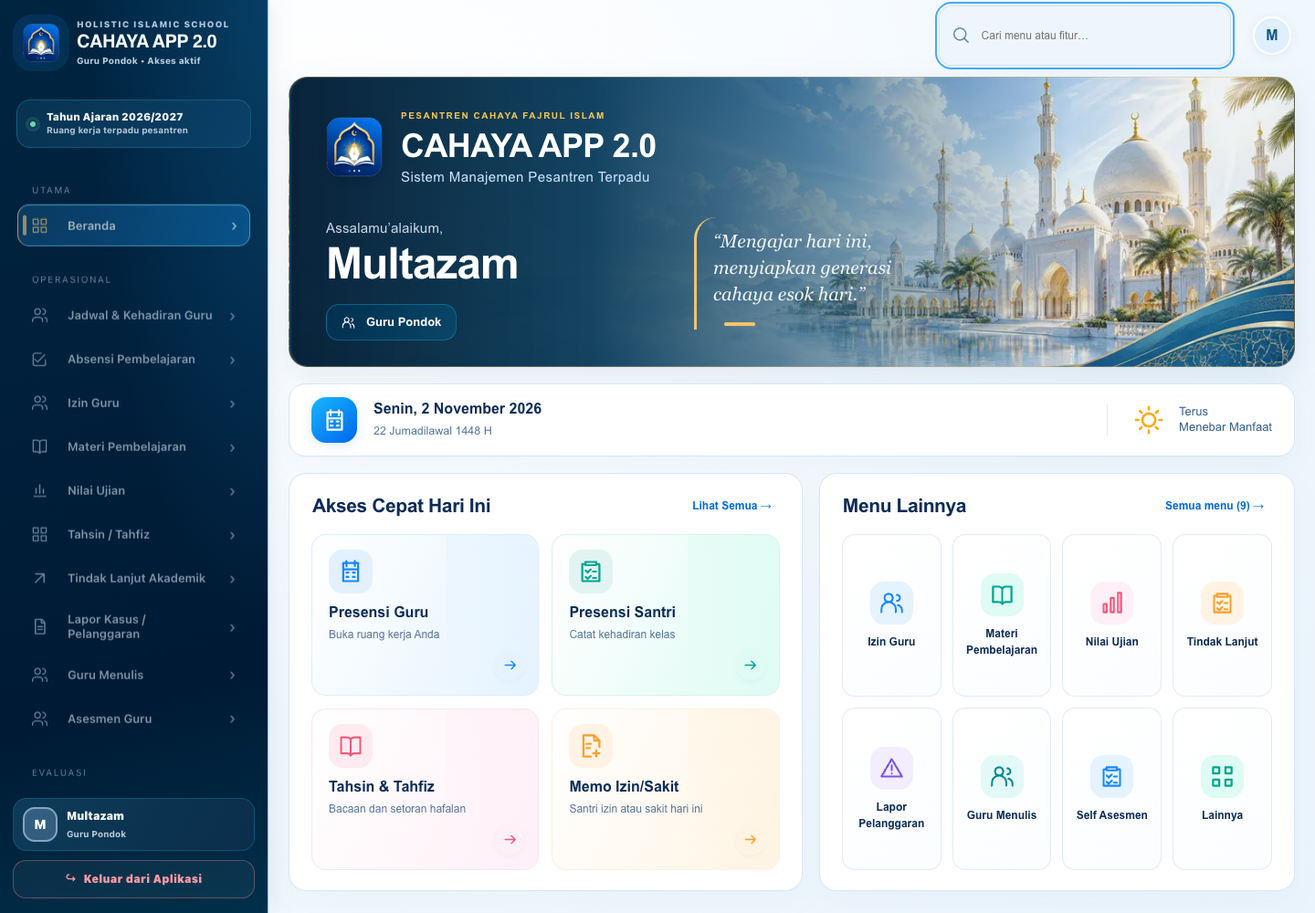
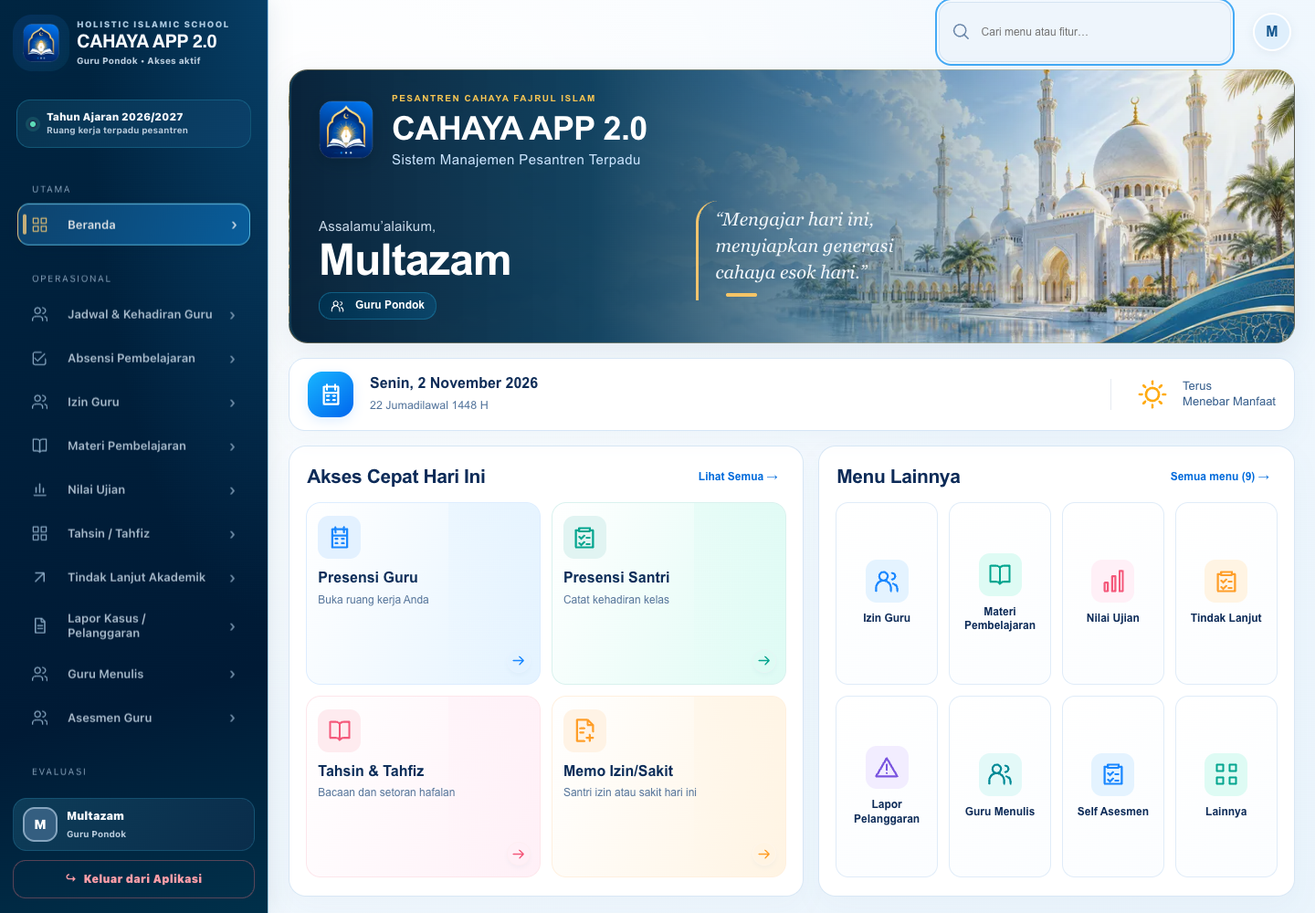
up

diff --git a/css/mobile-home-v2.css b/css/mobile-home-v2.css
@@ -342,3 +342,36 @@
  body:not(.admin-brand-shell) #mainSidebar .sidebar-user-card{background:linear-gradient(120deg,#0d3c58,#0a2d4b)!important;border-color:#2787ad55!important;border-radius:15px!important}
  body:not(.admin-brand-shell) #mainSidebar .btn-logout{border-radius:14px!important;border-color:#ed70795c!important;color:#ff9ea8!important}
 }
+/* Fit the desktop Home to the available viewport; complete menus open in a dialog. */
+@media(min-width:769px){
+ #mobileRoleHome,#mobileRoleHome.mh-sparse{height:100dvh!important;min-height:0!important;overflow:hidden;scrollbar-gutter:auto;max-height:100dvh!important;padding:10px 22px 18px!important;gap:clamp(10px,1.6vh,18px);grid-template-rows:clamp(38px,5vh,54px) clamp(170px,30vh,318px) clamp(54px,8vh,80px) minmax(0,1fr)}
+ #mobileRoleHome .mh-masthead{min-height:0;padding:clamp(16px,2.5vh,30px) 32px;grid-template-rows:clamp(54px,8vh,88px) minmax(0,1fr);gap:clamp(8px,1.6vh,20px)}
+ #mobileRoleHome .mh-brand>img{width:clamp(40px,6vh,62px);height:clamp(44px,7vh,70px)}
+ #mobileRoleHome .mh-brand strong{font-size:clamp(24px,3.6vh,36px)}
+ #mobileRoleHome .mh-brand .mh-desktop-subtitle{font-size:clamp(11px,1.5vh,15px)!important}
+ #mobileRoleHome h1{font-size:clamp(28px,4.8vh,48px)!important;margin:3px 0 8px!important;line-height:1.1!important}
+ #mobileRoleHome .mh-identity-actions .mh-role{min-height:30px;padding:6px 12px;font-size:12px}
+ #mobileRoleHome blockquote{font-size:clamp(14px,2vh,20px)!important;padding-top:6px;padding-bottom:16px}
+ #mobileRoleHome .mh-date{height:100%;padding:8px 20px;min-height:0}
+ #mobileRoleHome .mh-date-icon{width:clamp(34px,5vh,50px);height:clamp(34px,5vh,50px)}
+ #mobileRoleHome .mh-quick,#mobileRoleHome .mh-menu{min-height:0;padding:clamp(12px,2vh,22px) clamp(12px,1.6vw,24px);gap:clamp(8px,1.5vh,16px);grid-template-rows:26px minmax(0,1fr)}
+ #mobileRoleHome h2{font-size:clamp(16px,2.1vh,21px)!important}
+ #mobileRoleHome .mh-quick-grid,#mobileRoleHome .mh-menu-grid{min-height:0;gap:clamp(8px,1.2vh,12px);grid-template-rows:repeat(2,minmax(0,1fr))}
+ #mobileRoleHome .mh-menu-grid{grid-template-columns:repeat(4,minmax(0,1fr))}
+ #mobileRoleHome .mh-quick-card,#mobileRoleHome .mh-menu-card{min-height:0;padding:clamp(8px,1.4vh,16px) 12px;gap:clamp(4px,1vh,10px)}
+ #mobileRoleHome .mh-quick-card .mh-icon,#mobileRoleHome .mh-menu-card .mh-icon{width:clamp(30px,4.8vh,47px);height:clamp(30px,4.8vh,47px);border-radius:12px}
+ #mobileRoleHome .mh-quick-card .mh-icon svg,#mobileRoleHome .mh-menu-card .mh-icon svg{width:clamp(20px,2.8vh,28px);height:clamp(20px,2.8vh,28px)}
+ #mobileRoleHome .mh-quick-card .mh-card-copy b{font-size:clamp(13px,1.7vh,16px)}
+ #mobileRoleHome .mh-quick-card .mh-card-copy small{font-size:clamp(10px,1.3vh,12px)!important;-webkit-line-clamp:1}
+ #mobileRoleHome .mh-menu-card b{font-size:clamp(10px,1.25vh,12px);line-height:1.3}
+ #mobileRoleHome .mh-quick-card .mh-card-arrow{width:26px;height:26px;bottom:12px;right:10px}
+}
+@media(min-width:901px) and (max-height:850px){
+ body:not(.admin-brand-shell) #mainSidebar .sidebar-top{padding-top:12px!important;padding-bottom:8px!important}
+ body:not(.admin-brand-shell) #mainSidebar .brand-header{padding-bottom:12px!important}
+ body:not(.admin-brand-shell) #mainSidebar .sidebar-school-pill{padding:10px 12px!important;margin-top:6px!important}
+ html.cahaya-v2 body:not(.admin-brand-shell) #mainSidebar #dynamicMenu .group-label{margin-top:12px!important;margin-bottom:6px!important}
+ html.cahaya-v2 body:not(.admin-brand-shell) #mainSidebar #dynamicMenu .nav-item{min-height:35px!important;padding-top:7px!important;padding-bottom:7px!important;font-size:12px!important}
+ body:not(.admin-brand-shell) #mainSidebar .sidebar-bottom{padding-top:8px!important;padding-bottom:10px!important}
+ body:not(.admin-brand-shell) #mainSidebar .sidebar-user-card{padding:8px 10px!important;margin-bottom:8px!important}
+}

diff --git a/docs/css/mobile-home-v2.css b/docs/css/mobile-home-v2.css
@@ -342,3 +342,36 @@
  body:not(.admin-brand-shell) #mainSidebar .sidebar-user-card{background:linear-gradient(120deg,#0d3c58,#0a2d4b)!important;border-color:#2787ad55!important;border-radius:15px!important}
  body:not(.admin-brand-shell) #mainSidebar .btn-logout{border-radius:14px!important;border-color:#ed70795c!important;color:#ff9ea8!important}
 }
+/* Fit the desktop Home to the available viewport; complete menus open in a dialog. */
+@media(min-width:769px){
+ #mobileRoleHome,#mobileRoleHome.mh-sparse{height:100dvh!important;min-height:0!important;overflow:hidden;scrollbar-gutter:auto;max-height:100dvh!important;padding:10px 22px 18px!important;gap:clamp(10px,1.6vh,18px);grid-template-rows:clamp(38px,5vh,54px) clamp(170px,30vh,318px) clamp(54px,8vh,80px) minmax(0,1fr)}
+ #mobileRoleHome .mh-masthead{min-height:0;padding:clamp(16px,2.5vh,30px) 32px;grid-template-rows:clamp(54px,8vh,88px) minmax(0,1fr);gap:clamp(8px,1.6vh,20px)}
+ #mobileRoleHome .mh-brand>img{width:clamp(40px,6vh,62px);height:clamp(44px,7vh,70px)}
+ #mobileRoleHome .mh-brand strong{font-size:clamp(24px,3.6vh,36px)}
+ #mobileRoleHome .mh-brand .mh-desktop-subtitle{font-size:clamp(11px,1.5vh,15px)!important}
+ #mobileRoleHome h1{font-size:clamp(28px,4.8vh,48px)!important;margin:3px 0 8px!important;line-height:1.1!important}
+ #mobileRoleHome .mh-identity-actions .mh-role{min-height:30px;padding:6px 12px;font-size:12px}
+ #mobileRoleHome blockquote{font-size:clamp(14px,2vh,20px)!important;padding-top:6px;padding-bottom:16px}
+ #mobileRoleHome .mh-date{height:100%;padding:8px 20px;min-height:0}
+ #mobileRoleHome .mh-date-icon{width:clamp(34px,5vh,50px);height:clamp(34px,5vh,50px)}
+ #mobileRoleHome .mh-quick,#mobileRoleHome .mh-menu{min-height:0;padding:clamp(12px,2vh,22px) clamp(12px,1.6vw,24px);gap:clamp(8px,1.5vh,16px);grid-template-rows:26px minmax(0,1fr)}
+ #mobileRoleHome h2{font-size:clamp(16px,2.1vh,21px)!important}
+ #mobileRoleHome .mh-quick-grid,#mobileRoleHome .mh-menu-grid{min-height:0;gap:clamp(8px,1.2vh,12px);grid-template-rows:repeat(2,minmax(0,1fr))}
+ #mobileRoleHome .mh-menu-grid{grid-template-columns:repeat(4,minmax(0,1fr))}
+ #mobileRoleHome .mh-quick-card,#mobileRoleHome .mh-menu-card{min-height:0;padding:clamp(8px,1.4vh,16px) 12px;gap:clamp(4px,1vh,10px)}
+ #mobileRoleHome .mh-quick-card .mh-icon,#mobileRoleHome .mh-menu-card .mh-icon{width:clamp(30px,4.8vh,47px);height:clamp(30px,4.8vh,47px);border-radius:12px}
+ #mobileRoleHome .mh-quick-card .mh-icon svg,#mobileRoleHome .mh-menu-card .mh-icon svg{width:clamp(20px,2.8vh,28px);height:clamp(20px,2.8vh,28px)}
+ #mobileRoleHome .mh-quick-card .mh-card-copy b{font-size:clamp(13px,1.7vh,16px)}
+ #mobileRoleHome .mh-quick-card .mh-card-copy small{font-size:clamp(10px,1.3vh,12px)!important;-webkit-line-clamp:1}
+ #mobileRoleHome .mh-menu-card b{font-size:clamp(10px,1.25vh,12px);line-height:1.3}
+ #mobileRoleHome .mh-quick-card .mh-card-arrow{width:26px;height:26px;bottom:12px;right:10px}
+}
+@media(min-width:901px) and (max-height:850px){
+ body:not(.admin-brand-shell) #mainSidebar .sidebar-top{padding-top:12px!important;padding-bottom:8px!important}
+ body:not(.admin-brand-shell) #mainSidebar .brand-header{padding-bottom:12px!important}
+ body:not(.admin-brand-shell) #mainSidebar .sidebar-school-pill{padding:10px 12px!important;margin-top:6px!important}
+ html.cahaya-v2 body:not(.admin-brand-shell) #mainSidebar #dynamicMenu .group-label{margin-top:12px!important;margin-bottom:6px!important}
+ html.cahaya-v2 body:not(.admin-brand-shell) #mainSidebar #dynamicMenu .nav-item{min-height:35px!important;padding-top:7px!important;padding-bottom:7px!important;font-size:12px!important}
+ body:not(.admin-brand-shell) #mainSidebar .sidebar-bottom{padding-top:8px!important;padding-bottom:10px!important}
+ body:not(.admin-brand-shell) #mainSidebar .sidebar-user-card{padding:8px 10px!important;margin-bottom:8px!important}
+}

diff --git a/docs/home-supervisor-v2.html b/docs/home-supervisor-v2.html
@@ -1,6 +1,6 @@
 <!doctype html><html lang="id"><head>
 <meta charset="utf-8"><meta name="viewport" content="width=device-width,initial-scale=1,viewport-fit=cover"><meta name="theme-color" content="#f4f9ff"><title>Supervisor • CAHAYA APP</title>
-<script src="js/role-system-v2.js?v=266"></script><script src="js/role-route-registry-v2.js?v=266"></script><script src="js/role-navigation-v2.js?v=266"></script><script src="js/role-scope-v2.js?v=235"></script><script src="js/role-entry-v2.js?v=290"></script><script src="js/supervisor-v2-contract.js?v=240"></script>
+<script src="js/role-system-v2.js?v=266"></script><script src="js/role-route-registry-v2.js?v=266"></script><script src="js/role-navigation-v2.js?v=266"></script><script src="js/role-scope-v2.js?v=235"></script><script src="js/role-entry-v2.js?v=295"></script><script src="js/supervisor-v2-contract.js?v=240"></script>
 <link rel="stylesheet" href="css/manager-education-v2.css?v=227"><link rel="stylesheet" href="css/manager-education-home-header.css?v=233">
 <style>.sv-home .me-card{min-height:116px}.sv-home .me-card.primary{min-height:139px}.sv-home .me-meta button{border:1px solid #d5e7f8;background:#fff;color:#1769b9;cursor:pointer}.sv-home .me-meta button:disabled{cursor:default;opacity:1}@media(max-width:430px){.sv-home .me-card{min-height:107px}.sv-home .me-card.primary{min-height:130px}}</style>
 </head><body><main class="me-shell sv-home"><header class="me-home-header"><div class="me-home-brand"><img src="assets/cahaya-app/logo-icon.png?v=54" alt=""><span><strong>CAHAYA <em>APP</em></strong><small>Pesantren Cahaya Fajrul Islam</small></span></div><button type="button" id="profileBtn" class="me-home-avatar" aria-label="Buka profil">S</button></header><section class="me-hero"><span class="me-eyebrow">SUPERVISI DIVISI</span><h1 id="greeting">Assalamu’alaikum</h1><p>Jaga standar kerja, dampingi Manajer dan personil, serta arahkan penyelesaian masalah sesuai kewenangan.</p><div class="me-meta"><span id="nameChip">Supervisor</span><button id="roleChip" type="button" class="me-chip">Supervisor</button><span id="unitChip">Unit</span><span id="areasChip">Divisi</span></div></section><section class="me-section"><div class="me-section-title"><span>AKSES CEPAT</span><h2>Supervisi hari ini</h2></div><div id="quickGrid" class="me-grid"></div></section><section class="me-section me-menu"><div class="me-section-title"><span>MENU SUPERVISOR</span><h2>Standar & pembinaan</h2></div><div id="menuGrid" class="me-grid"></div></section></main><script src="js/supervisor-home-v2.js?v=280"></script></body></html>

diff --git a/home-supervisor-v2.html b/home-supervisor-v2.html
@@ -1,6 +1,6 @@
 <!doctype html><html lang="id"><head>
 <meta charset="utf-8"><meta name="viewport" content="width=device-width,initial-scale=1,viewport-fit=cover"><meta name="theme-color" content="#f4f9ff"><title>Supervisor • CAHAYA APP</title>
-<script src="js/role-system-v2.js?v=266"></script><script src="js/role-route-registry-v2.js?v=266"></script><script src="js/role-navigation-v2.js?v=266"></script><script src="js/role-scope-v2.js?v=235"></script><script src="js/role-entry-v2.js?v=290"></script><script src="js/supervisor-v2-contract.js?v=240"></script>
+<script src="js/role-system-v2.js?v=266"></script><script src="js/role-route-registry-v2.js?v=266"></script><script src="js/role-navigation-v2.js?v=266"></script><script src="js/role-scope-v2.js?v=235"></script><script src="js/role-entry-v2.js?v=295"></script><script src="js/supervisor-v2-contract.js?v=240"></script>
 <link rel="stylesheet" href="css/manager-education-v2.css?v=227"><link rel="stylesheet" href="css/manager-education-home-header.css?v=233">
 <style>.sv-home .me-card{min-height:116px}.sv-home .me-card.primary{min-height:139px}.sv-home .me-meta button{border:1px solid #d5e7f8;background:#fff;color:#1769b9;cursor:pointer}.sv-home .me-meta button:disabled{cursor:default;opacity:1}@media(max-width:430px){.sv-home .me-card{min-height:107px}.sv-home .me-card.primary{min-height:130px}}</style>
 </head><body><main class="me-shell sv-home"><header class="me-home-header"><div class="me-home-brand"><img src="assets/cahaya-app/logo-icon.png?v=54" alt=""><span><strong>CAHAYA <em>APP</em></strong><small>Pesantren Cahaya Fajrul Islam</small></span></div><button type="button" id="profileBtn" class="me-home-avatar" aria-label="Buka profil">S</button></header><section class="me-hero"><span class="me-eyebrow">SUPERVISI DIVISI</span><h1 id="greeting">Assalamu’alaikum</h1><p>Jaga standar kerja, dampingi Manajer dan personil, serta arahkan penyelesaian masalah sesuai kewenangan.</p><div class="me-meta"><span id="nameChip">Supervisor</span><button id="roleChip" type="button" class="me-chip">Supervisor</button><span id="unitChip">Unit</span><span id="areasChip">Divisi</span></div></section><section class="me-section"><div class="me-section-title"><span>AKSES CEPAT</span><h2>Supervisi hari ini</h2></div><div id="quickGrid" class="me-grid"></div></section><section class="me-section me-menu"><div class="me-section-title"><span>MENU SUPERVISOR</span><h2>Standar & pembinaan</h2></div><div id="menuGrid" class="me-grid"></div></section></main><script src="js/supervisor-home-v2.js?v=280"></script></body></html>

diff --git a/docs/home-media.html b/docs/home-media.html
@@ -1,4 +1,4 @@
 <!doctype html><html lang="id"><head><!-- ROLE_V2_ENTRY_START -->
-<script src="js/role-system-v2.js?v=272"></script><script src="js/role-route-registry-v2.js?v=272"></script><script src="js/role-navigation-v2.js?v=272"></script><script src="js/role-scope-v2.js?v=226"></script><script src="js/role-entry-v2.js?v=290"></script>
+<script src="js/role-system-v2.js?v=272"></script><script src="js/role-route-registry-v2.js?v=272"></script><script src="js/role-navigation-v2.js?v=272"></script><script src="js/role-scope-v2.js?v=226"></script><script src="js/role-entry-v2.js?v=295"></script>
 <!-- ROLE_V2_ENTRY_END --><meta charset="utf-8"><meta name="viewport" content="width=device-width,initial-scale=1,viewport-fit=cover"><meta name="theme-color" content="#f5faff"><title>Media • CAHAYA APP</title><link rel="stylesheet" href="css/media-v2.css?v=226"><link rel="stylesheet" href="css/media-operations-v2.css?v=272"></head>
 <body class="media-page"><main class="dv-home"><section class="dv-hero"><span class="dv-eyebrow">MEDIA & DOKUMENTASI</span><h1>Media</h1><p>Perbarui tautan media untuk wali dan laporkan capaian dokumentasi secara sederhana.</p><div class="dv-meta"><span id="staffName">Tim Media</span><span>Media</span></div></section><section><div class="dv-section-title"><span>FOKUS UTAMA</span><h2>Pilih pekerjaan Anda</h2></div><div class="dv-home-grid"><button class="dv-feature" data-route="admin/admin_media.html?v=226" data-menu="menu-media"><i>↗</i><b>Update URL Wali</b><small>Perbarui tautan media untuk halaman wali santri</small><em>Buka →</em></button><button class="dv-feature" data-route="media/target-capaian.html?v=229" data-menu="menu-dashboard-operasional"><i>◎</i><b>Laporan & Capaian Media</b><small>Laporkan pekerjaan harian dan pekanan beserta buktinya</small><em>Buka →</em></button></div></section><section class="mo-home-secondary"><div class="dv-section-title"><span>MENU LAINNYA</span><h2>Arsip & perencanaan</h2></div><div class="mo-home-links"><button data-route="media/operasional.html?view=gallery" data-menu="menu-gallery-dokumentasi">📁 <b>Gallery Dokumentasi</b><small>Arsip folder dokumentasi di Drive</small></button><button data-route="media/operasional.html?view=content" data-menu="menu-manajemen-konten">▦ <b>Manajemen Konten</b><small>Rencana produksi dan evaluasi konten</small></button></div></section></main><script src="js/media-home-v2.js?v=226"></script></body></html>

diff --git a/home-media.html b/home-media.html
@@ -1,4 +1,4 @@
 <!doctype html><html lang="id"><head><!-- ROLE_V2_ENTRY_START -->
-<script src="js/role-system-v2.js?v=272"></script><script src="js/role-route-registry-v2.js?v=272"></script><script src="js/role-navigation-v2.js?v=272"></script><script src="js/role-scope-v2.js?v=226"></script><script src="js/role-entry-v2.js?v=290"></script>
+<script src="js/role-system-v2.js?v=272"></script><script src="js/role-route-registry-v2.js?v=272"></script><script src="js/role-navigation-v2.js?v=272"></script><script src="js/role-scope-v2.js?v=226"></script><script src="js/role-entry-v2.js?v=295"></script>
 <!-- ROLE_V2_ENTRY_END --><meta charset="utf-8"><meta name="viewport" content="width=device-width,initial-scale=1,viewport-fit=cover"><meta name="theme-color" content="#f5faff"><title>Media • CAHAYA APP</title><link rel="stylesheet" href="css/media-v2.css?v=226"><link rel="stylesheet" href="css/media-operations-v2.css?v=272"></head>
 <body class="media-page"><main class="dv-home"><section class="dv-hero"><span class="dv-eyebrow">MEDIA & DOKUMENTASI</span><h1>Media</h1><p>Perbarui tautan media untuk wali dan laporkan capaian dokumentasi secara sederhana.</p><div class="dv-meta"><span id="staffName">Tim Media</span><span>Media</span></div></section><section><div class="dv-section-title"><span>FOKUS UTAMA</span><h2>Pilih pekerjaan Anda</h2></div><div class="dv-home-grid"><button class="dv-feature" data-route="admin/admin_media.html?v=226" data-menu="menu-media"><i>↗</i><b>Update URL Wali</b><small>Perbarui tautan media untuk halaman wali santri</small><em>Buka →</em></button><button class="dv-feature" data-route="media/target-capaian.html?v=229" data-menu="menu-dashboard-operasional"><i>◎</i><b>Laporan & Capaian Media</b><small>Laporkan pekerjaan harian dan pekanan beserta buktinya</small><em>Buka →</em></button></div></section><section class="mo-home-secondary"><div class="dv-section-title"><span>MENU LAINNYA</span><h2>Arsip & perencanaan</h2></div><div class="mo-home-links"><button data-route="media/operasional.html?view=gallery" data-menu="menu-gallery-dokumentasi">📁 <b>Gallery Dokumentasi</b><small>Arsip folder dokumentasi di Drive</small></button><button data-route="media/operasional.html?view=content" data-menu="menu-manajemen-konten">▦ <b>Manajemen Konten</b><small>Rencana produksi dan evaluasi konten</small></button></div></section></main><script src="js/media-home-v2.js?v=226"></script></body></html>

diff --git a/docs/home-dapur.html b/docs/home-dapur.html
@@ -1,4 +1,4 @@
 <!doctype html><html lang="id"><head><!-- ROLE_V2_ENTRY_START -->
-<script src="js/role-system-v2.js?v=275"></script><script src="js/role-route-registry-v2.js?v=275"></script><script src="js/role-navigation-v2.js?v=275"></script><script src="js/role-scope-v2.js?v=225"></script><script src="js/role-entry-v2.js?v=290"></script>
+<script src="js/role-system-v2.js?v=275"></script><script src="js/role-route-registry-v2.js?v=275"></script><script src="js/role-navigation-v2.js?v=275"></script><script src="js/role-scope-v2.js?v=225"></script><script src="js/role-entry-v2.js?v=295"></script>
 <!-- ROLE_V2_ENTRY_END --><meta charset="utf-8"><meta name="viewport" content="width=device-width,initial-scale=1,viewport-fit=cover"><meta name="theme-color" content="#f5faff"><title>Dapur • CAHAYA APP</title><link rel="stylesheet" href="css/dapur-v2.css?v=275"></head>
 <body><main class="dv-home"><section class="dv-hero"><span class="dv-eyebrow">OPERASIONAL HARIAN</span><h1>Dapur</h1><p>Catat layanan makan, siapkan kebutuhan belanja, dan periksa penerimaan bahan setiap hari.</p><div class="dv-meta"><span id="staffName">Petugas Dapur</span><span id="scopeChip">Dapur</span></div></section><section><div class="dv-section-title"><span>PEKERJAAN UTAMA</span><h2>Apa yang akan dikerjakan?</h2></div><div class="dv-home-grid"><button class="dv-feature" data-route="dapur/app.html?v=275&amp;view=logbook" data-menu="menu-dashboard-operasional"><i>🍲</i><b>Jurnal Makan</b><small>Catat satu sesi layanan makan dan kendalanya</small><em>Buka →</em></button><button class="dv-feature" data-route="dapur/procurement-v2.html?v=275&amp;view=shopping" data-menu="menu-dapur-shopping"><i>🛒</i><b>Daftar Belanja Besok</b><small>Susun kebutuhan besok agar mudah diteruskan</small><em>Isi →</em></button><button class="dv-feature" data-route="dapur/procurement-v2.html?v=275&amp;view=received" data-menu="menu-dapur-received"><i>✓</i><b>Penerimaan Bahan</b><small>Cocokkan barang datang dengan daftar belanja</small><em>Periksa →</em></button><button class="dv-feature" data-route="dapur/menu-bahan-v2.html?v=275&amp;view=menu" data-menu="menu-dapur-menu"><i>▤</i><b>Menu Makan Harian</b><small>Lihat jadwal menu dari Supervisor Dapur</small><em>Lihat →</em></button></div></section></main><div class="dv-toast" id="toast"></div><script src="js/dapur-home-v2.js?v=275"></script></body></html>

diff --git a/home-dapur.html b/home-dapur.html
@@ -1,4 +1,4 @@
 <!doctype html><html lang="id"><head><!-- ROLE_V2_ENTRY_START -->
-<script src="js/role-system-v2.js?v=275"></script><script src="js/role-route-registry-v2.js?v=275"></script><script src="js/role-navigation-v2.js?v=275"></script><script src="js/role-scope-v2.js?v=225"></script><script src="js/role-entry-v2.js?v=290"></script>
+<script src="js/role-system-v2.js?v=275"></script><script src="js/role-route-registry-v2.js?v=275"></script><script src="js/role-navigation-v2.js?v=275"></script><script src="js/role-scope-v2.js?v=225"></script><script src="js/role-entry-v2.js?v=295"></script>
 <!-- ROLE_V2_ENTRY_END --><meta charset="utf-8"><meta name="viewport" content="width=device-width,initial-scale=1,viewport-fit=cover"><meta name="theme-color" content="#f5faff"><title>Dapur • CAHAYA APP</title><link rel="stylesheet" href="css/dapur-v2.css?v=275"></head>
 <body><main class="dv-home"><section class="dv-hero"><span class="dv-eyebrow">OPERASIONAL HARIAN</span><h1>Dapur</h1><p>Catat layanan makan, siapkan kebutuhan belanja, dan periksa penerimaan bahan setiap hari.</p><div class="dv-meta"><span id="staffName">Petugas Dapur</span><span id="scopeChip">Dapur</span></div></section><section><div class="dv-section-title"><span>PEKERJAAN UTAMA</span><h2>Apa yang akan dikerjakan?</h2></div><div class="dv-home-grid"><button class="dv-feature" data-route="dapur/app.html?v=275&amp;view=logbook" data-menu="menu-dashboard-operasional"><i>🍲</i><b>Jurnal Makan</b><small>Catat satu sesi layanan makan dan kendalanya</small><em>Buka →</em></button><button class="dv-feature" data-route="dapur/procurement-v2.html?v=275&amp;view=shopping" data-menu="menu-dapur-shopping"><i>🛒</i><b>Daftar Belanja Besok</b><small>Susun kebutuhan besok agar mudah diteruskan</small><em>Isi →</em></button><button class="dv-feature" data-route="dapur/procurement-v2.html?v=275&amp;view=received" data-menu="menu-dapur-received"><i>✓</i><b>Penerimaan Bahan</b><small>Cocokkan barang datang dengan daftar belanja</small><em>Periksa →</em></button><button class="dv-feature" data-route="dapur/menu-bahan-v2.html?v=275&amp;view=menu" data-menu="menu-dapur-menu"><i>▤</i><b>Menu Makan Harian</b><small>Lihat jadwal menu dari Supervisor Dapur</small><em>Lihat →</em></button></div></section></main><div class="dv-toast" id="toast"></div><script src="js/dapur-home-v2.js?v=275"></script></body></html>

diff --git a/docs/home-manajer-pembinaan-karakter.html b/docs/home-manajer-pembinaan-karakter.html
@@ -1,3 +1,3 @@
 <!doctype html><html lang="id"><head>
-<script src="js/role-system-v2.js?v=268"></script><script src="js/role-route-registry-v2.js?v=268"></script><script src="js/role-navigation-v2.js?v=268"></script><script src="js/role-scope-v2.js?v=235"></script><script src="js/role-entry-v2.js?v=290"></script>
+<script src="js/role-system-v2.js?v=268"></script><script src="js/role-route-registry-v2.js?v=268"></script><script src="js/role-navigation-v2.js?v=268"></script><script src="js/role-scope-v2.js?v=235"></script><script src="js/role-entry-v2.js?v=295"></script>
 <meta charset="utf-8"><meta name="viewport" content="width=device-width,initial-scale=1,viewport-fit=cover"><meta name="theme-color" content="#f4f9ff"><title>Manajer Pembinaan Karakter • CAHAYA APP</title><link rel="stylesheet" href="css/manager-education-v2.css?v=227"><link rel="stylesheet" href="css/manager-education-home-header.css?v=233"></head><body><main class="me-shell"><header class="me-home-header"><div class="me-home-brand"><img src="assets/cahaya-app/logo-icon.png?v=54" alt="Logo CAHAYA APP"><span><strong>CAHAYA <em>APP</em></strong><small>Pesantren Cahaya Fajrul Islam</small></span></div><button type="button" id="managerProfileButton" class="me-home-avatar" aria-label="Buka profil">M</button></header><section class="me-hero"><span class="me-eyebrow">PEMBINAAN KARAKTER</span><h1 id="greeting">Assalamu’alaikum</h1><p>Kendalikan proses pembinaan santri, dampingi personil, dan tuntaskan temuan operasional tanpa mengambil alih tugas mereka.</p><div class="me-meta"><span id="managerName">Manajer</span><button type="button" class="me-chip" id="roleChip">Manajer Pembinaan Karakter</button><span id="scopeChip">Putra</span><span id="dateChip">Hari ini</span></div></section><section class="me-section"><div class="me-section-title"><span>AKSES CEPAT</span><h2>Pantau personil & kegiatan</h2></div><div class="me-grid" id="quickGrid"></div></section><section class="me-section me-menu"><div class="me-section-title"><span>MENU PEMBINAAN</span><h2>Tindak lanjut & personil</h2></div><div class="me-grid" id="menuGrid"></div></section></main><script src="js/manager-character-home-v2.js?v=268"></script></body></html>

diff --git a/home-manajer-pembinaan-karakter.html b/home-manajer-pembinaan-karakter.html
@@ -1,3 +1,3 @@
 <!doctype html><html lang="id"><head>
-<script src="js/role-system-v2.js?v=268"></script><script src="js/role-route-registry-v2.js?v=268"></script><script src="js/role-navigation-v2.js?v=268"></script><script src="js/role-scope-v2.js?v=235"></script><script src="js/role-entry-v2.js?v=290"></script>
+<script src="js/role-system-v2.js?v=268"></script><script src="js/role-route-registry-v2.js?v=268"></script><script src="js/role-navigation-v2.js?v=268"></script><script src="js/role-scope-v2.js?v=235"></script><script src="js/role-entry-v2.js?v=295"></script>
 <meta charset="utf-8"><meta name="viewport" content="width=device-width,initial-scale=1,viewport-fit=cover"><meta name="theme-color" content="#f4f9ff"><title>Manajer Pembinaan Karakter • CAHAYA APP</title><link rel="stylesheet" href="css/manager-education-v2.css?v=227"><link rel="stylesheet" href="css/manager-education-home-header.css?v=233"></head><body><main class="me-shell"><header class="me-home-header"><div class="me-home-brand"><img src="assets/cahaya-app/logo-icon.png?v=54" alt="Logo CAHAYA APP"><span><strong>CAHAYA <em>APP</em></strong><small>Pesantren Cahaya Fajrul Islam</small></span></div><button type="button" id="managerProfileButton" class="me-home-avatar" aria-label="Buka profil">M</button></header><section class="me-hero"><span class="me-eyebrow">PEMBINAAN KARAKTER</span><h1 id="greeting">Assalamu’alaikum</h1><p>Kendalikan proses pembinaan santri, dampingi personil, dan tuntaskan temuan operasional tanpa mengambil alih tugas mereka.</p><div class="me-meta"><span id="managerName">Manajer</span><button type="button" class="me-chip" id="roleChip">Manajer Pembinaan Karakter</button><span id="scopeChip">Putra</span><span id="dateChip">Hari ini</span></div></section><section class="me-section"><div class="me-section-title"><span>AKSES CEPAT</span><h2>Pantau personil & kegiatan</h2></div><div class="me-grid" id="quickGrid"></div></section><section class="me-section me-menu"><div class="me-section-title"><span>MENU PEMBINAAN</span><h2>Tindak lanjut & personil</h2></div><div class="me-grid" id="menuGrid"></div></section></main><script src="js/manager-character-home-v2.js?v=268"></script></body></html>

diff --git a/docs/home-manajer-pendidikan.html b/docs/home-manajer-pendidikan.html
@@ -1,3 +1,3 @@
 <!doctype html><html lang="id"><head><!-- ROLE_V2_ENTRY_START -->
-<script src="js/role-system-v2.js?v=266"></script><script src="js/role-route-registry-v2.js?v=266"></script><script src="js/role-navigation-v2.js?v=266"></script><script src="js/role-scope-v2.js?v=227"></script><script src="js/role-entry-v2.js?v=290"></script>
+<script src="js/role-system-v2.js?v=266"></script><script src="js/role-route-registry-v2.js?v=266"></script><script src="js/role-navigation-v2.js?v=266"></script><script src="js/role-scope-v2.js?v=227"></script><script src="js/role-entry-v2.js?v=295"></script>
 <!-- ROLE_V2_ENTRY_END --><meta charset="utf-8"><meta name="viewport" content="width=device-width,initial-scale=1,viewport-fit=cover"><meta name="theme-color" content="#f4f9ff"><title>Manajer Pendidikan • CAHAYA APP</title><link rel="stylesheet" href="css/manager-education-v2.css?v=227"><link rel="stylesheet" href="css/manager-education-home-header.css?v=233"></head><body><main class="me-shell"><header class="me-home-header"><div class="me-home-brand"><img src="assets/cahaya-app/logo-icon.png?v=54" alt="Logo CAHAYA APP"><span><strong>CAHAYA <em>APP</em></strong><small>Pesantren Cahaya Fajrul Islam</small></span></div><button type="button" id="managerProfileButton" class="me-home-avatar" aria-label="Buka profil Manajer">M</button></header><section class="me-hero"><span class="me-eyebrow">MANAJER PENDIDIKAN</span><h1 id="greeting">Assalamu’alaikum</h1><p>Pastikan rencana, pelaksanaan, hasil, dan tindak lanjut pendidikan Pondok berjalan setiap hari.</p><div class="me-meta"><span id="managerName">Manajer</span><span id="scopeChip">Kepondokan</span><span id="dateChip">Hari ini</span></div></section><section class="me-section"><div class="me-section-title"><span>AKSES CEPAT</span><h2>Pengendalian hari ini</h2></div><div class="me-grid" id="quickGrid"></div></section><section class="me-section me-menu"><div class="me-section-title"><span>MENU PENDIDIKAN</span><h2>Operasional & pembinaan</h2></div><div class="me-grid" id="menuGrid"></div></section></main><script src="js/manager-education-home-v2.js?v=234"></script></body></html>

diff --git a/home-manajer-pendidikan.html b/home-manajer-pendidikan.html
@@ -1,3 +1,3 @@
 <!doctype html><html lang="id"><head><!-- ROLE_V2_ENTRY_START -->
-<script src="js/role-system-v2.js?v=266"></script><script src="js/role-route-registry-v2.js?v=266"></script><script src="js/role-navigation-v2.js?v=266"></script><script src="js/role-scope-v2.js?v=227"></script><script src="js/role-entry-v2.js?v=290"></script>
+<script src="js/role-system-v2.js?v=266"></script><script src="js/role-route-registry-v2.js?v=266"></script><script src="js/role-navigation-v2.js?v=266"></script><script src="js/role-scope-v2.js?v=227"></script><script src="js/role-entry-v2.js?v=295"></script>
 <!-- ROLE_V2_ENTRY_END --><meta charset="utf-8"><meta name="viewport" content="width=device-width,initial-scale=1,viewport-fit=cover"><meta name="theme-color" content="#f4f9ff"><title>Manajer Pendidikan • CAHAYA APP</title><link rel="stylesheet" href="css/manager-education-v2.css?v=227"><link rel="stylesheet" href="css/manager-education-home-header.css?v=233"></head><body><main class="me-shell"><header class="me-home-header"><div class="me-home-brand"><img src="assets/cahaya-app/logo-icon.png?v=54" alt="Logo CAHAYA APP"><span><strong>CAHAYA <em>APP</em></strong><small>Pesantren Cahaya Fajrul Islam</small></span></div><button type="button" id="managerProfileButton" class="me-home-avatar" aria-label="Buka profil Manajer">M</button></header><section class="me-hero"><span class="me-eyebrow">MANAJER PENDIDIKAN</span><h1 id="greeting">Assalamu’alaikum</h1><p>Pastikan rencana, pelaksanaan, hasil, dan tindak lanjut pendidikan Pondok berjalan setiap hari.</p><div class="me-meta"><span id="managerName">Manajer</span><span id="scopeChip">Kepondokan</span><span id="dateChip">Hari ini</span></div></section><section class="me-section"><div class="me-section-title"><span>AKSES CEPAT</span><h2>Pengendalian hari ini</h2></div><div class="me-grid" id="quickGrid"></div></section><section class="me-section me-menu"><div class="me-section-title"><span>MENU PENDIDIKAN</span><h2>Operasional & pembinaan</h2></div><div class="me-grid" id="menuGrid"></div></section></main><script src="js/manager-education-home-v2.js?v=234"></script></body></html>
